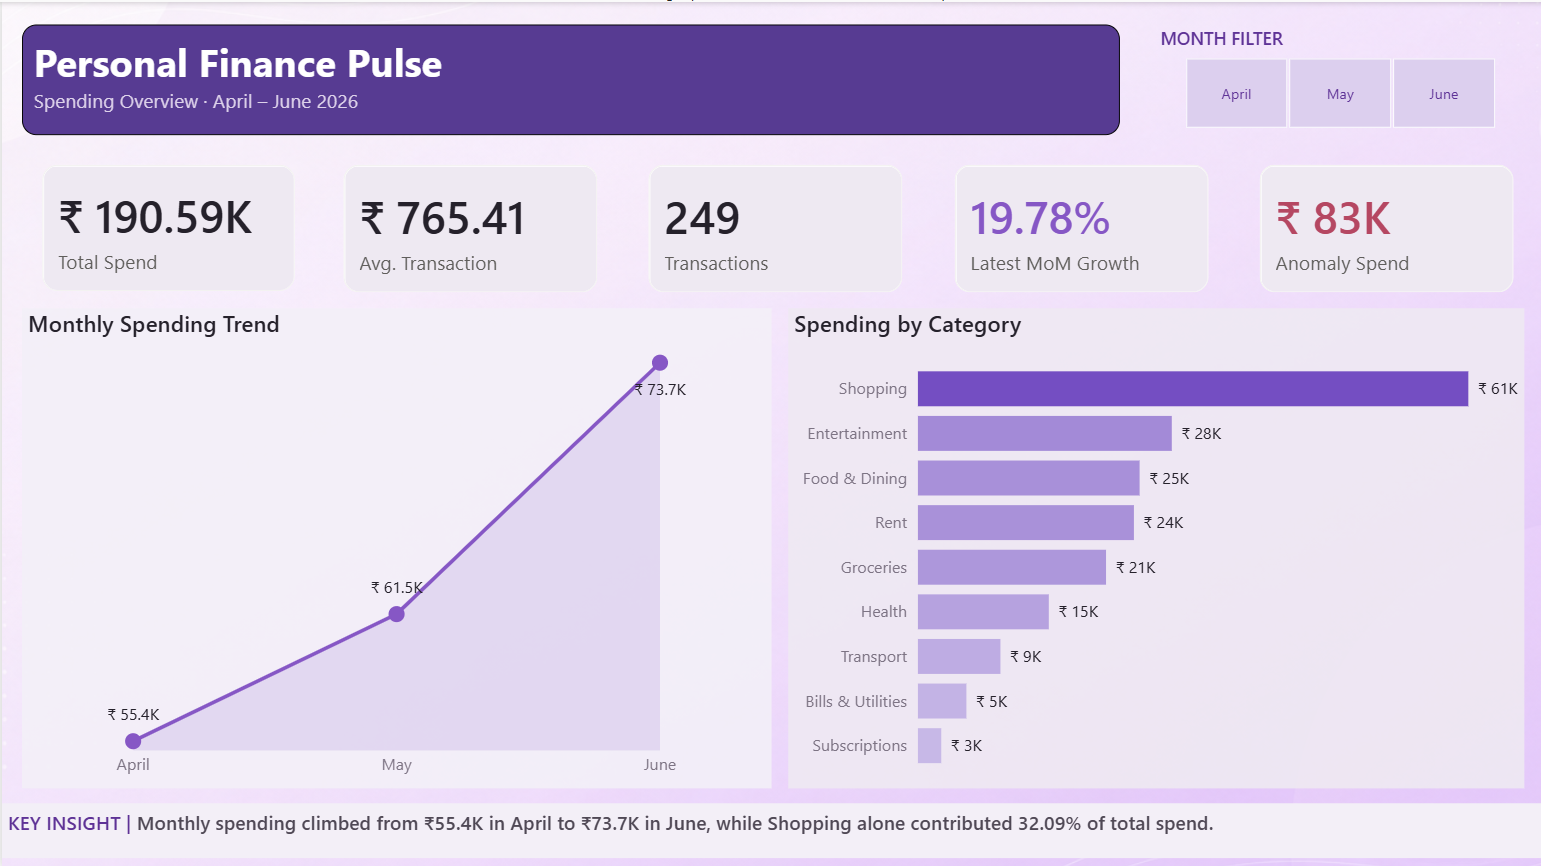
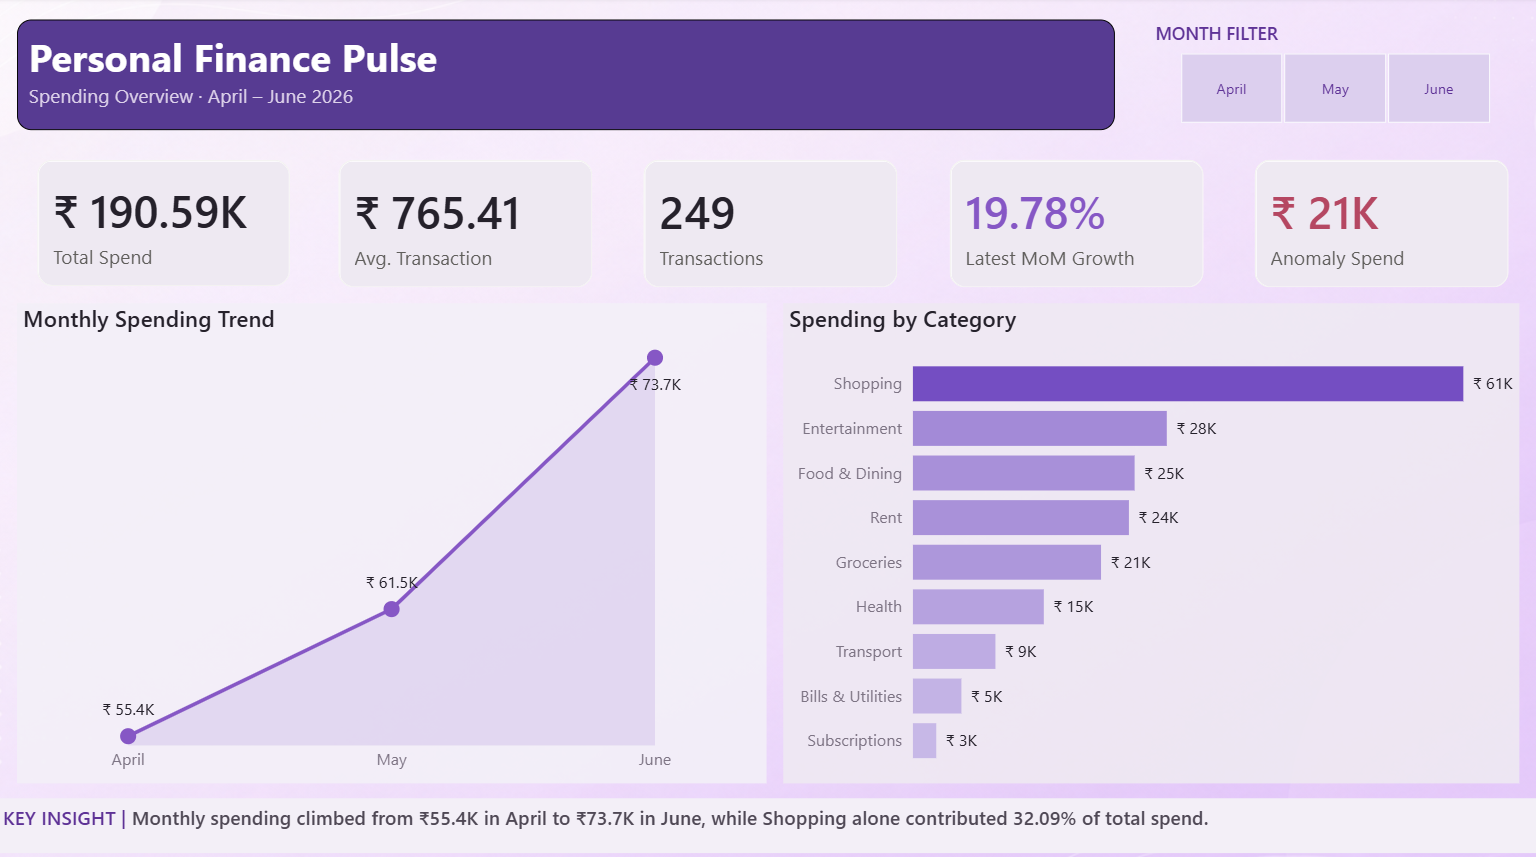
Complete FinPulse analytics pipeline and Power BI dashboard

diff --git a/scripts/etl.py b/scripts/etl.py
@@ -147,21 +147,29 @@ def create_spending_tiers(df):
     return df
 
 def detect_anomalies(df):
-    """Flag unusually high transaction amounts using the IQR method."""
+    """Flag unusually high transactions within each spending category."""
 
-    q1 = df["amount"].quantile(0.25)
-    q3 = df["amount"].quantile(0.75)
+    minimum_group_size = 5
 
-    iqr = q3 - q1
-    upper_bound = q3 + (1.5 * iqr)
+    category_stats = df.groupby("category")["amount"].transform(
+        lambda amounts: (
+            amounts.quantile(0.75)
+            + 1.5 * (
+                amounts.quantile(0.75)
+                - amounts.quantile(0.25)
+            )
+            if len(amounts) >= minimum_group_size
+            else float("inf")
+        )
+    )
 
-    df["is_anomaly"] = df["amount"] > upper_bound
+    df["is_anomaly"] = df["amount"] > category_stats
 
     anomaly_count = df["is_anomaly"].sum()
 
     print(
         f"Flagged {anomaly_count} anomalous transactions "
-        f"above ₹{upper_bound:.2f}."
+        "using category-level IQR."
     )
 
     return df

diff --git a/README.md b/README.md
@@ -47,8 +47,8 @@ Investigates high-value outlier transactions and measures their contribution to 
 - Total spending reached **₹190,587.01 across 249 processed transactions**.
 - Monthly spending increased **11.11% in May** and accelerated by **19.78% in June**.
 - **Shopping contributed 32.09% of total expenditure**, making it the largest spending category.
-- Only **20 anomalous transactions accounted for 43.33% of total spend**.
-- Anomalous transactions averaged **₹4,129.14**, compared with **₹471.63 for normal transactions**.
+- Only **6 category-level anomalies accounted for 11.06% of total spend**.
+- Anomalous transactions averaged **₹3,512.08**, compared with **₹697.59 for normal transactions**.
 - Weekend transactions averaged **₹835.13**, higher than the weekday average of **₹727.30**.
 - The **Very High spending tier represented 21.29% of transactions but generated 65.12% of total spending**.
 - Shopping remained the highest-ranked category each month, while Entertainment and Groceries became stronger spending drivers in June.
@@ -65,7 +65,7 @@ The Python ETL pipeline in `scripts/etl.py` performs:
 6. Text standardization
 7. Date-based feature engineering
 8. Spending tier classification
-9. IQR-based anomaly detection
+9. Category-level IQR anomaly detection
 10. Processed CSV export
 11. MySQL database loading
 12. Database row-count verification
@@ -85,7 +85,7 @@ The ETL process creates analytical features including:
 - Spending tier
 - Anomaly flag
 
-Anomalous transactions are identified using the **Interquartile Range (IQR) method**.
+Anomalous transactions are identified using **category-level Interquartile Range (IQR) detection**. Transactions are evaluated within their spending category rather than against the global transaction distribution. Categories with fewer than five observations are excluded from anomaly flagging to reduce unreliable classifications from sparse groups.
 
 ## SQL Analysis
 
@@ -214,4 +214,4 @@ FinPulse follows a three-stage analytical narrative:
 
 **Spending Overview → Spending Behaviour → Anomaly Analysis**
 
-The report first identifies overall financial trends, then explores behavioural spending patterns, and finally investigates the high-value transactions driving disproportionate spending impact.
+The report first identifies overall financial trends, then explores behavioural spending patterns, and finally investigates unusually high transactions relative to their spending categories.